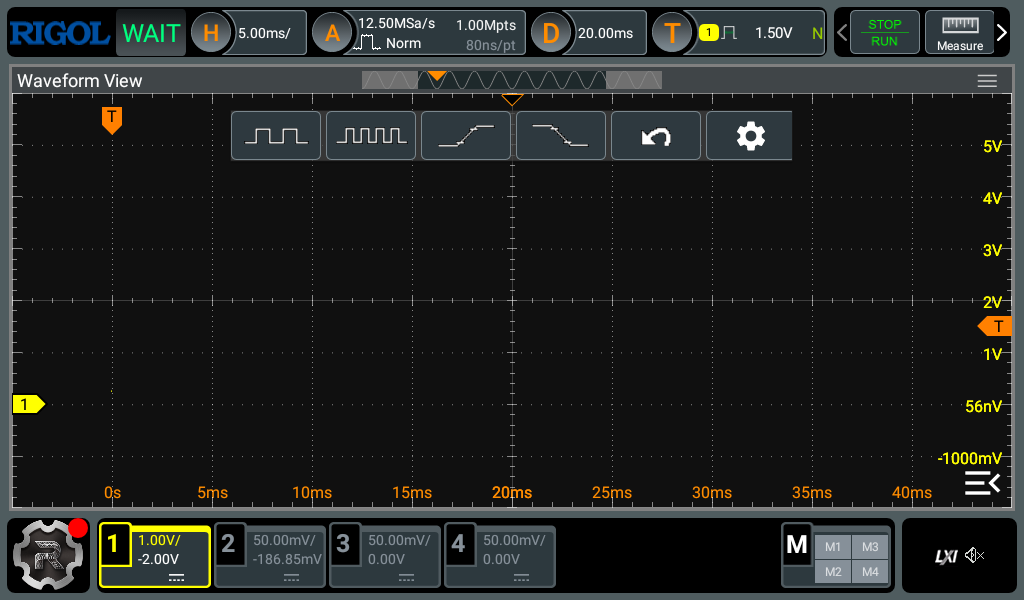
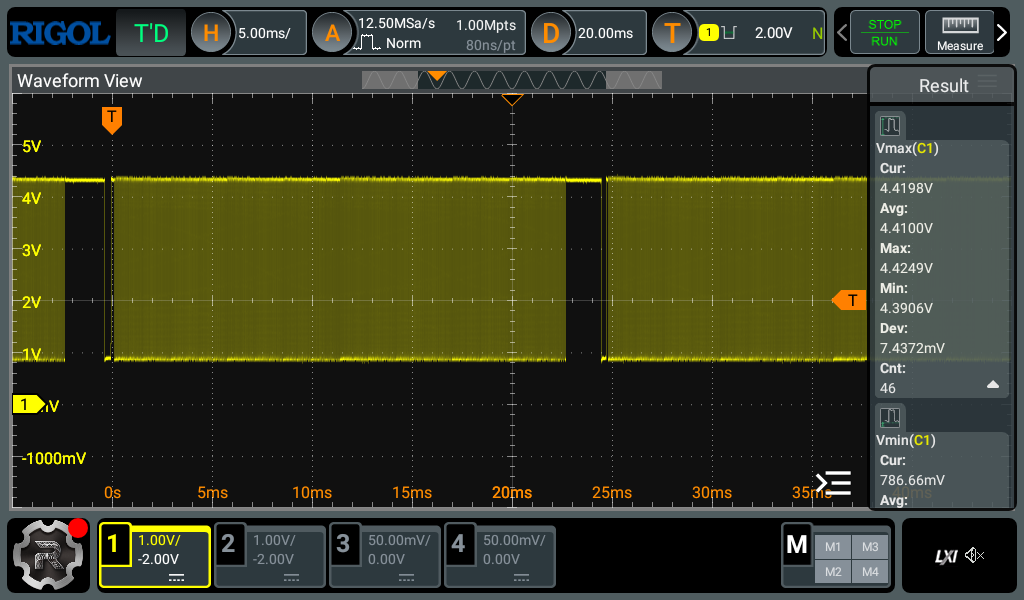
Add dmx_measure.py scope tool and WB8 oscilloscope results
Rigol DHO804 on RS-485-2 line A: BREAK 292-307 us, MAB 172-179 us, frame
period 24.8-25.2 ms at 40 Hz, 513 bytes per frame with no stop-bit errors.

diff --git a/scripts/dmx_measure.py b/scripts/dmx_measure.py
@@ -1,0 +1,132 @@
+"""Measure a DMX frame on the Rigol DHO804: BREAK, MAB, frame period, byte errors.
+
+CH1 on DMX line A (against GND), 10:1 probe. The scope is armed on a negative pulse longer than
+50 us (the BREAK), one 50 ms window at 1 Mpts is fetched and decoded as 250 kbit/s 8N2.
+
+Usage: dmx_measure.py [--window 0.05] [--level 2.0]
+"""
+import argparse
+import time
+
+from scope import Scope
+
+BIT_US = 4.0
+MIN_BREAK_US = 88.0
+
+
+def arm(sc: Scope, window_s: float, level: float) -> None:
+    for c in (":CHANnel1:DISPlay ON", ":CHANnel1:PROBe 10", ":CHANnel1:SCALe 1", ":CHANnel1:OFFSet -2",
+              ":CHANnel1:COUPling DC", ":BUS1:DISPlay OFF",
+              ":TRIGger:MODE PULSe", ":TRIGger:PULSe:SOURce CHANnel1", ":TRIGger:PULSe:POLarity NEGative",
+              ":TRIGger:PULSe:WHEN GREater", ":TRIGger:PULSe:LWIDth 5e-5", f":TRIGger:PULSe:LEVel {level}",
+              ":TRIGger:SWEep SINGle", ":ACQuire:MDEPth 1M",
+              f":TIMebase:MAIN:SCALe {window_s / 10}", f":TIMebase:MAIN:OFFSet {window_s * 0.4}", ":SINGle"):
+        sc.cmd(c)
+    for _ in range(50):
+        time.sleep(0.2)
+        if sc.query(":TRIGger:STATus?") == "STOP":
+            return
+    raise SystemExit("no trigger: is CH1 on line A and is a sender running?")
+
+
+def fetch(sc: Scope):
+    sc.cmd(":WAVeform:SOURce CHANnel1")
+    sc.cmd(":WAVeform:MODE RAW")
+    sc.cmd(":WAVeform:FORMat BYTE")
+    pre = sc.query(":WAVeform:PREamble?").split(",")
+    points, xinc, xorig = int(pre[2]), float(pre[4]), float(pre[5])
+    yinc, yorig, yref = float(pre[7]), float(pre[8]), float(pre[9])
+    # The preamble under-reports the point count (250000 at 1 Mpts), so read up to the memory
+    # depth and stop at the first short chunk.
+    try:
+        points = max(points, int(float(sc.query(":ACQuire:MDEPth?"))))
+    except ValueError:
+        pass
+    raw = b""
+    start = 1
+    while start <= points:
+        stop = min(points, start + 250000 - 1)
+        sc.cmd(f":WAVeform:STARt {start}")
+        sc.cmd(f":WAVeform:STOP {stop}")
+        chunk = sc.query(":WAVeform:DATA?", binary=True)
+        raw += chunk
+        if len(chunk) < stop - start + 1:
+            break
+        start = stop + 1
+    volts = [(b - yorig - yref) * yinc for b in raw]
+    return volts, xinc * 1e6, xorig * 1e6
+
+
+def decode(volts, dt_us, t0_us):
+    """Events: ('BREAK', t, len_us), ('MAB', t, len_us), ('BYTE', t, value, stop_ok)."""
+    vmax, vmin = max(volts), min(volts)
+    thr = (vmax + vmin) / 2
+    bits = [1 if v > thr else 0 for v in volts]
+    n = len(bits)
+    out = []
+    i = 0
+    while i < n:
+        if bits[i]:
+            i += 1
+            continue
+        j = i
+        while j < n and not bits[j]:
+            j += 1
+        low_us = (j - i) * dt_us
+        if low_us >= MIN_BREAK_US:
+            k = j
+            while k < n and bits[k]:
+                k += 1
+            out.append(("BREAK", t0_us + i * dt_us, low_us))
+            out.append(("MAB", t0_us + j * dt_us, (k - j) * dt_us))
+            i = k
+            continue
+        base = i + int(round(BIT_US * 0.5 / dt_us))
+        step = BIT_US / dt_us
+        byte = 0
+        for b in range(8):
+            idx = int(round(base + (1 + b) * step))
+            if idx < n and bits[idx]:
+                byte |= 1 << b
+        stop_idx = int(round(base + 9 * step))
+        out.append(("BYTE", t0_us + i * dt_us, byte, stop_idx < n and bits[stop_idx] == 1))
+        i = int(round(i + 11 * step)) - 2
+        while i < n and not bits[i]:
+            i += 1
+    return out, vmin, vmax
+
+
+def main() -> None:
+    ap = argparse.ArgumentParser()
+    ap.add_argument("--window", type=float, default=0.05, help="capture window, s")
+    ap.add_argument("--level", type=float, default=2.0, help="trigger level, V")
+    args = ap.parse_args()
+    sc = Scope()
+    arm(sc, args.window, args.level)
+    volts, dt_us, t0_us = fetch(sc)
+    sc.cmd(":TRIGger:SWEep NORMal")
+    sc.cmd(":RUN")
+    events, vmin, vmax = decode(volts, dt_us, t0_us)
+    print(f"samples={len(volts)} dt={dt_us * 1000:.0f} ns  line A: {vmin:.2f}..{vmax:.2f} V")
+    breaks = [e for e in events if e[0] == "BREAK"]
+    mabs = [e for e in events if e[0] == "MAB"]
+    for b, m in zip(breaks, mabs):
+        print(f"  t={b[1]:9.1f} us  BREAK {b[2]:6.1f} us   MAB {m[2]:6.1f} us")
+    for a, b in zip(breaks, breaks[1:]):
+        print(f"  frame period {b[1] - a[1]:.1f} us")
+    frames = []
+    cur = None
+    for e in events:
+        if e[0] == "BREAK":
+            cur = []
+            frames.append(cur)
+        elif e[0] == "BYTE" and cur is not None:
+            cur.append(e)
+    for k, f in enumerate(frames):
+        bad = sum(1 for e in f if not e[3])
+        head = " ".join(f"{e[2]:02X}" for e in f[:12])
+        print(f"  frame {k}: {len(f)} bytes (start code + {len(f) - 1} slots), {bad} bad stop bits: {head} ...")
+
+
+if __name__ == "__main__":
+    main()

diff --git a/README.md b/README.md
@@ -35,6 +35,10 @@ PYTHONPATH=. python3 bin/wb-mqtt-dmx test-port /dev/ttyRS485-2 --pattern blink -
 `tcdrain`. Что смотреть осциллографом на A/B: BREAK ≥ 88 мкс, MAB ≥ 8 мкс, период кадра, что линия
 не «плавает» между кадрами (DE удерживается).
 
+Результаты на WB 8.5 — в [docs/hardware_results.md](docs/hardware_results.md). Для Rigol DHO804 по
+сети есть `scripts/dmx_measure.py` (BREAK, MAB, период, ошибки стоп-битов; CH1 на линии A, щуп 10:1)
+и `scripts/scope.py` (скриншоты и SCPI-запросы), адрес прибора в переменной `SCOPE_HOST`.
+
 ## Разработка
 
 ```bash
